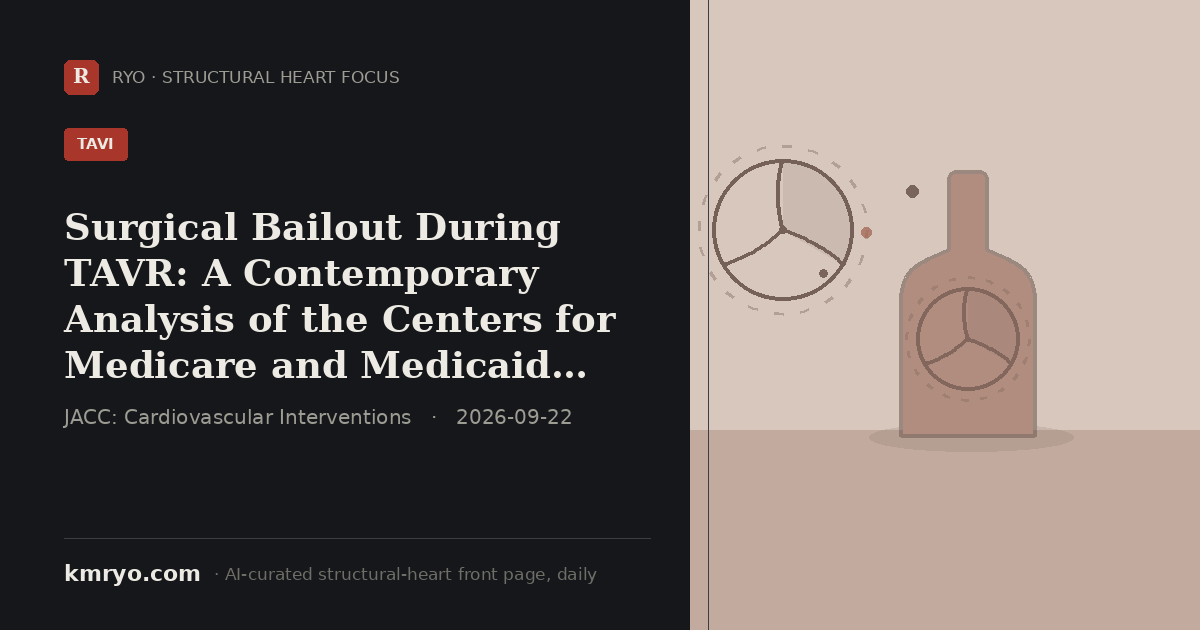
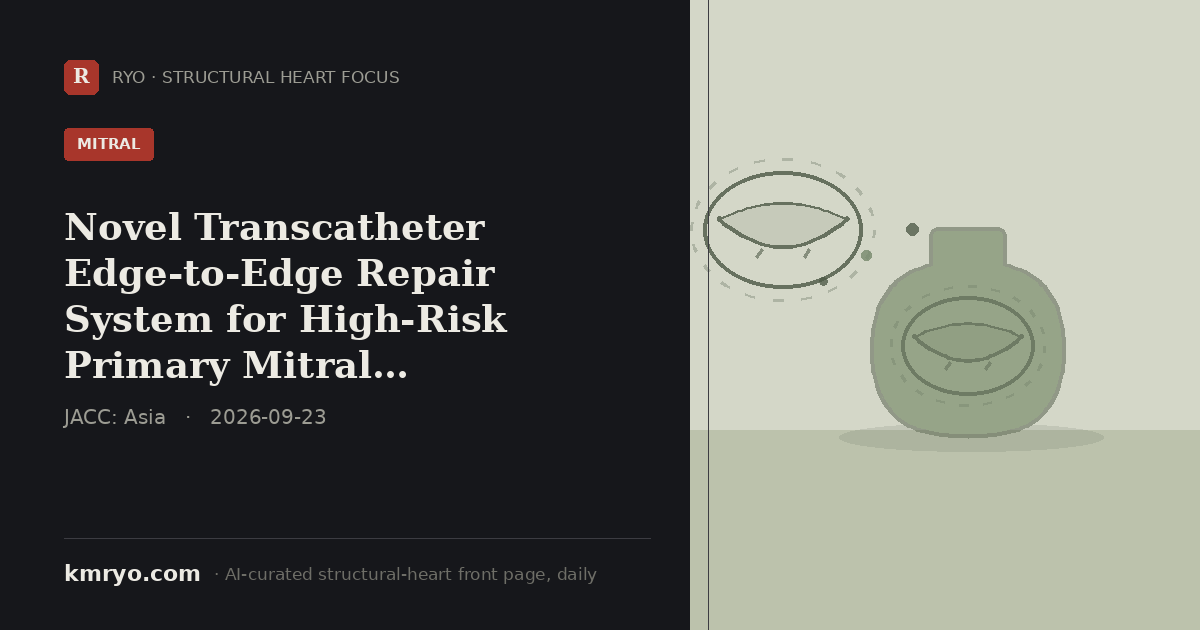
pulse: 2026-09-23 daily update
Claude-Session: https://claude.ai/code/session_01G9dkTY3PUGofVYc4bfjL58

diff --git a/index.html b/index.html
@@ -6,8 +6,8 @@
 <title>Structural Heart Focus — Daily | Dr. Mi Chen · 千觅量子 RYO</title>
 <meta name="description" content="Structural Heart Focus — the day's most important structural-heart reading (top journals, major meetings and the field's conversation), curated daily by an AI agent from inside the Zurich hybrid room. By Dr. Mi Chen · 千觅量子 RYO.">
 <!-- Social share card. Regenerated daily by the pulse agent (pulse/make_share_card.py); og:title/description updated to the day's top story so LinkedIn/WeChat/X show today's headline, not a static portrait. -->
-<meta property="og:title" content="Surgical Bailout During TAVR: A Contemporary Analysis of the Centers for Medicare and Medicaid Services Database">
-<meta property="og:description" content="A US CMS-database analysis of 400,862 TAVR procedures (2016-2024) finds surgical bailout fell to 0.40% by 2024, yet 30-day mortality after bailout remained 26.3% vs 1.8% without it.">
+<meta property="og:title" content="Novel Transcatheter Edge-to-Edge Repair System for High-Risk Primary Mitral Regurgitation: 2-Year Pivotal Trial Outcomes">
+<meta property="og:description" content="China's Neonova TEER pivotal trial (123 high-risk primary MR patients, 23 centers) hit its 1-year efficacy endpoint in 92.68% of patients, with 84.55% event-free and 95.41% at MR ≤2+ at 2 years.">
 <meta property="og:image" content="https://www.kmryo.com/pulse/img/share/card.png">
 <meta property="og:image:width" content="1200">
 <meta property="og:image:height" content="630">
@@ -16,8 +16,8 @@
 <meta property="og:type" content="website">
 <meta property="og:site_name" content="kmryo.com · Structural Heart Focus">
 <meta name="twitter:card" content="summary_large_image">
-<meta name="twitter:title" content="Surgical Bailout During TAVR: A Contemporary Analysis of the Centers for Medicare and Medicaid Services Database">
-<meta name="twitter:description" content="A US CMS-database analysis of 400,862 TAVR procedures (2016-2024) finds surgical bailout fell to 0.40% by 2024, yet 30-day mortality after bailout remained 26.3% vs 1.8% without it.">
+<meta name="twitter:title" content="Novel Transcatheter Edge-to-Edge Repair System for High-Risk Primary Mitral Regurgitation: 2-Year Pivotal Trial Outcomes">
+<meta name="twitter:description" content="China's Neonova TEER pivotal trial (123 high-risk primary MR patients, 23 centers) hit its 1-year efficacy endpoint in 92.68% of patients, with 84.55% event-free and 95.41% at MR ≤2+ at 2 years.">
 <meta name="twitter:image" content="https://www.kmryo.com/pulse/img/share/card.png">
[1 lines of base64/hex data omitted]
 <link rel="preconnect" href="https://fonts.googleapis.com">
